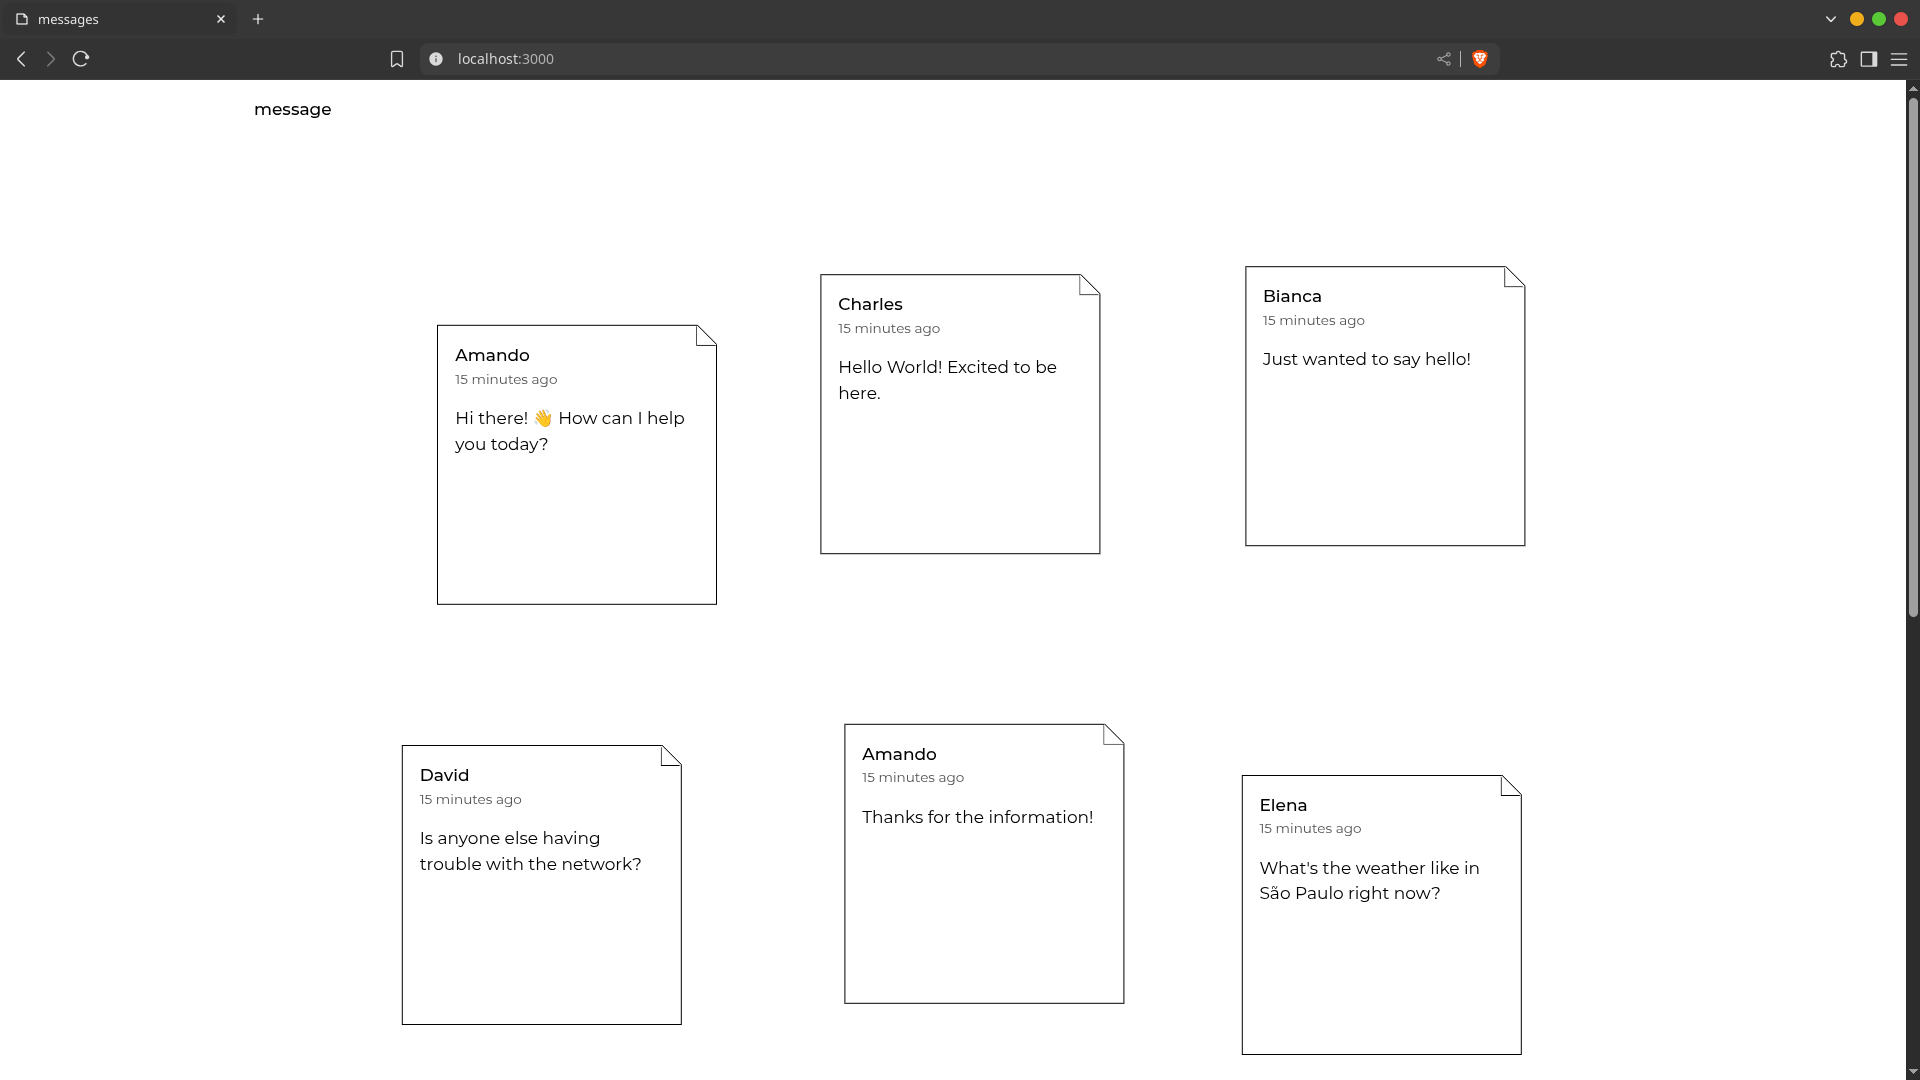
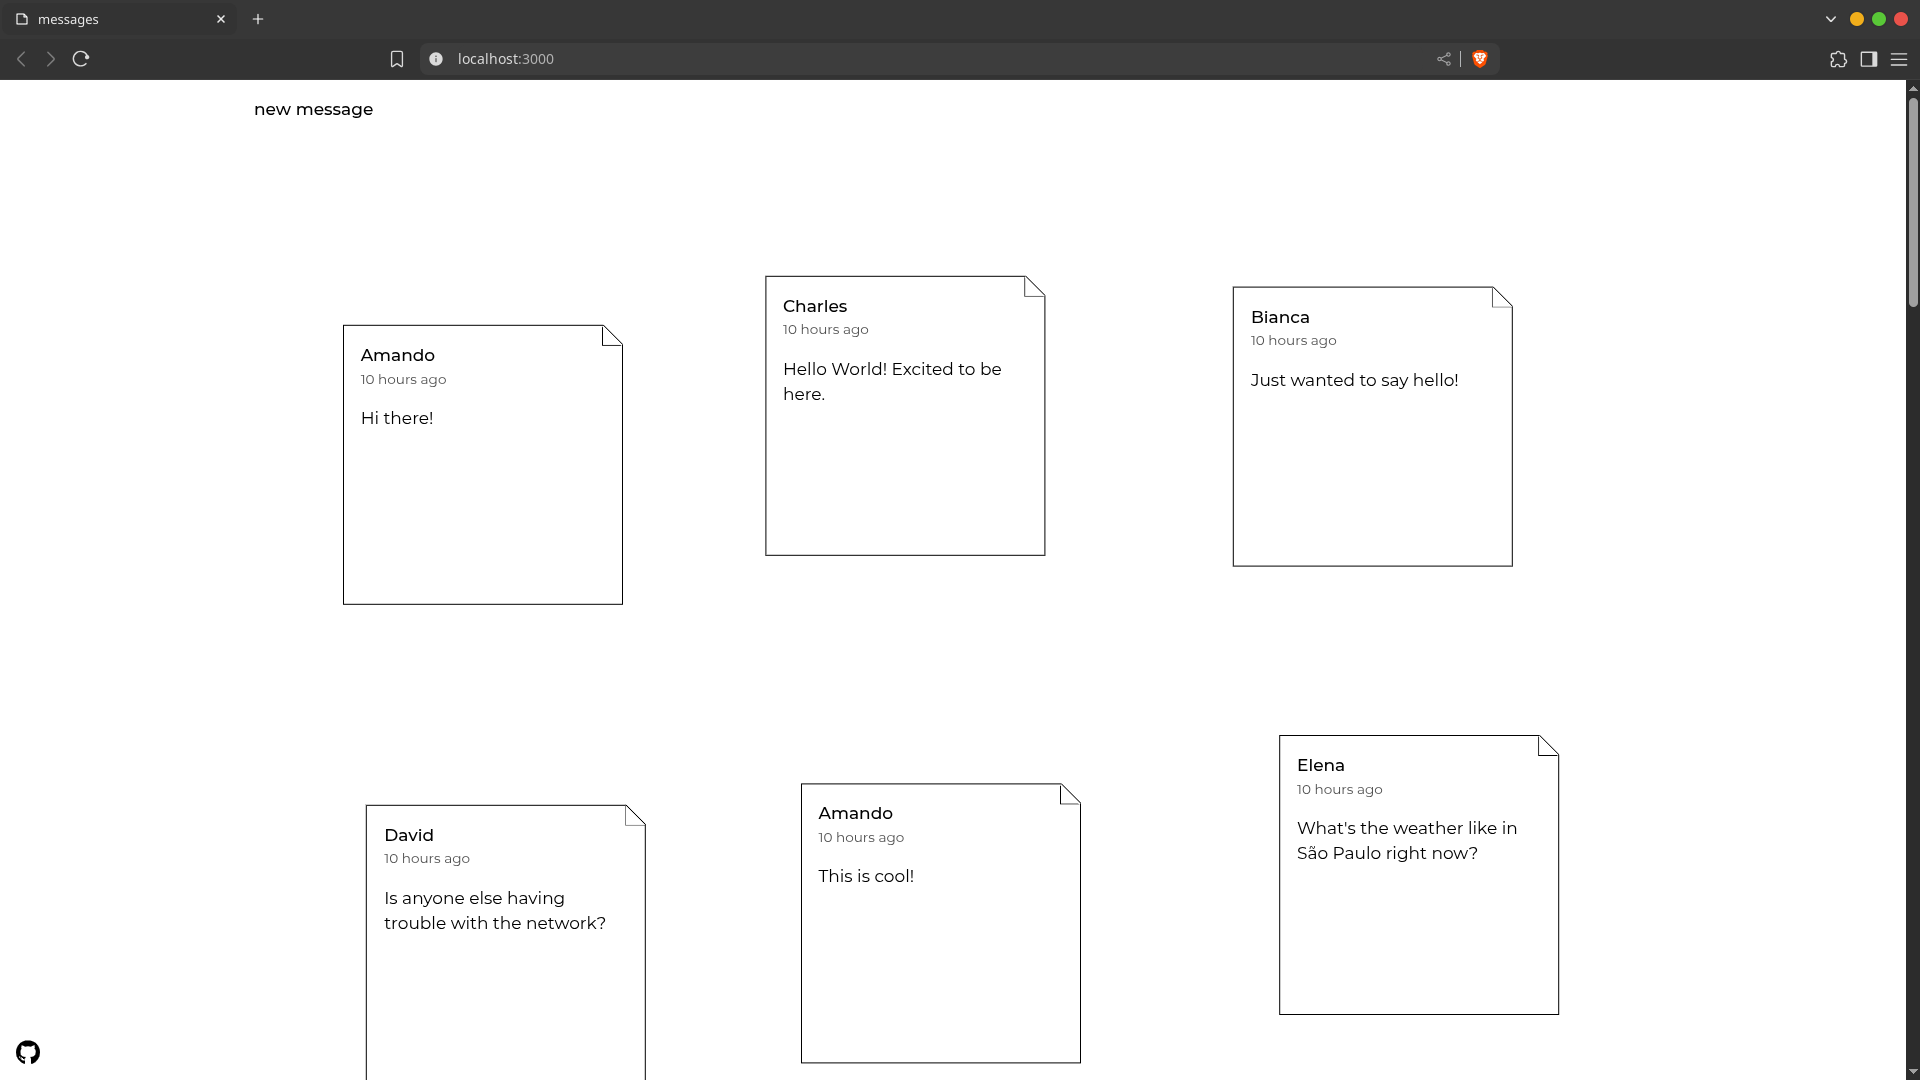
🐳 chore: Improve styles

diff --git a/public/css/styles.css b/public/css/styles.css
@@ -52,7 +52,7 @@ body {
 }
 
 .main {
-    padding: 6em 0;
+    padding: 10em 0;
     width: 100%;
     display: grid;
     place-items: center;
